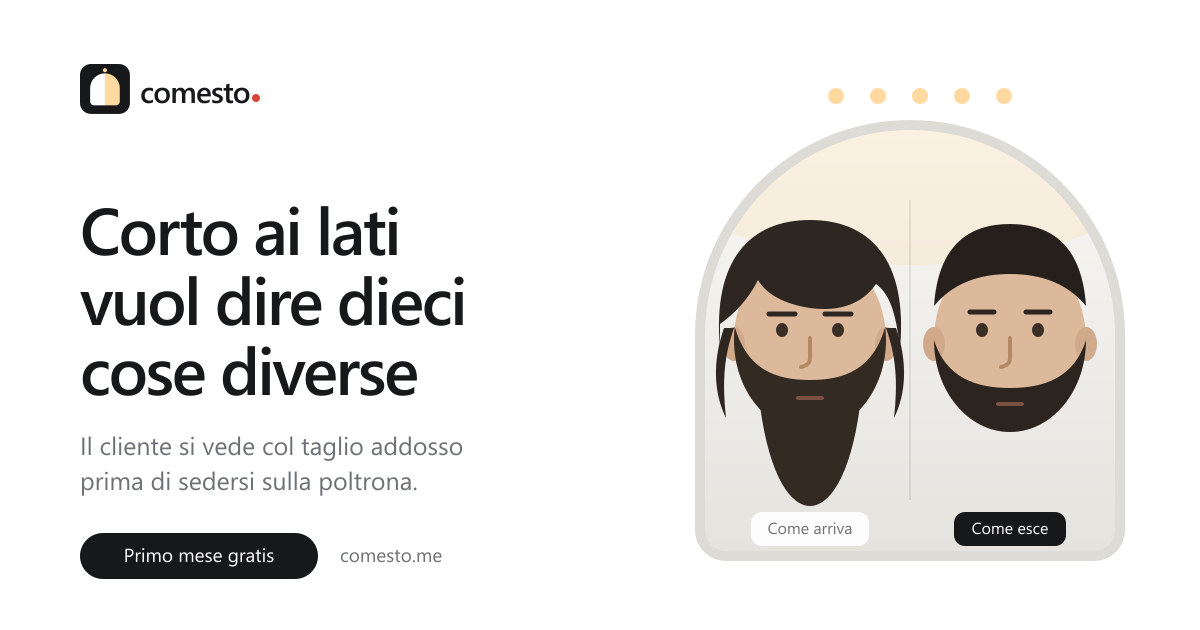
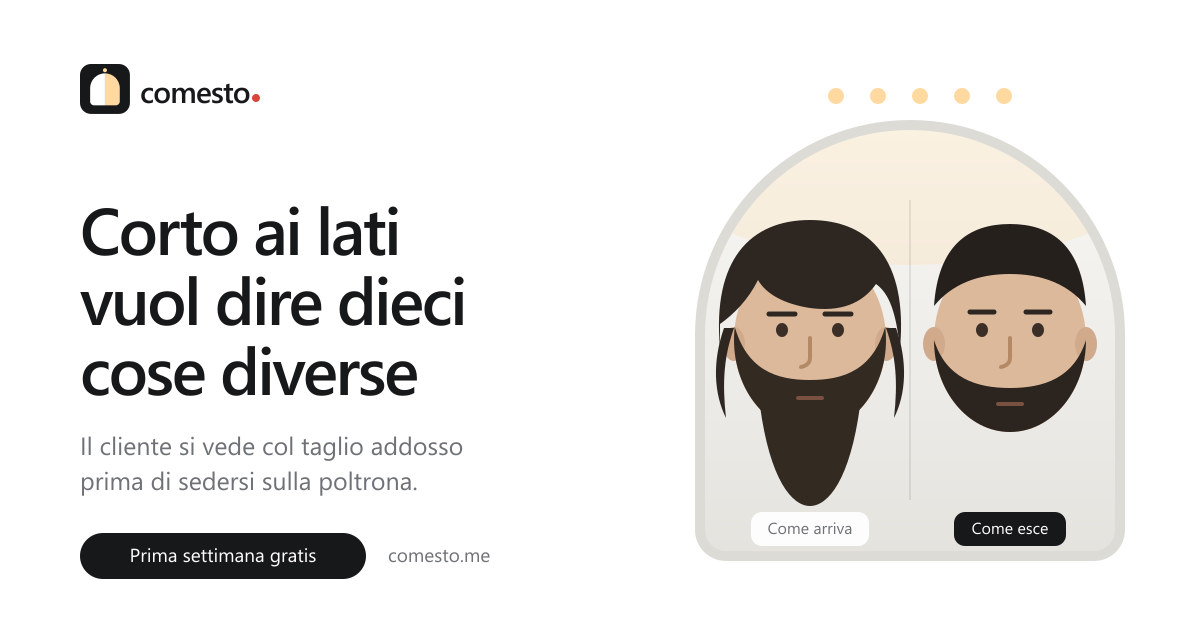
Prova gratuita di una settimana, via i dati personali del fondatore

Changed region(s): [[0.0925, 0.8444, 0.4008, 0.9349]]

diff --git a/ComestoSite.jsx b/ComestoSite.jsx
@@ -19,18 +19,18 @@ import React, { useState, useEffect, useRef, useCallback, useId } from "react";
    vuota. L'immagine og deve essere un URL assoluto e reale (1200x630).
 
    <title>comesto - il taglio lo vede prima, poi entra</title>
-   <meta name="description" content="Il tuo cliente si fa un selfie, sceglie dal tuo menu tagli e si vede col taglio addosso. Tu ricevi un link e un QR. 19,99 euro al mese, primo mese gratis." />
+   <meta name="description" content="Il tuo cliente si fa un selfie, sceglie dal tuo menu tagli e si vede col taglio addosso. Tu ricevi un link e un QR. 19,99 euro al mese, prima settimana gratis." />
    <meta name="viewport" content="width=device-width, initial-scale=1, viewport-fit=cover" />
    <meta name="theme-color" content="#FFFFFF" />
-   <link rel="canonical" href="https://<< dominio da inserire >>/" />
+   <link rel="canonical" href="https://comesto.me/" />
 
    <meta property="og:type" content="website" />
    <meta property="og:site_name" content="comesto" />
    <meta property="og:locale" content="it_IT" />
-   <meta property="og:url" content="https://<< dominio da inserire >>/" />
+   <meta property="og:url" content="https://comesto.me/" />
    <meta property="og:title" content="Corto ai lati vuol dire dieci cose diverse" />
-   <meta property="og:description" content="Il cliente si vede col taglio addosso prima di sedersi. Tu metti un QR sullo specchio. Primo mese gratis, disdici quando vuoi." />
-   <meta property="og:image" content="https://<< dominio da inserire >>/og-comesto.jpg" />
+   <meta property="og:description" content="Il cliente si vede col taglio addosso prima di sedersi. Tu metti un QR sullo specchio. Prima settimana gratis, disdici quando vuoi." />
+   <meta property="og:image" content="https://comesto.me/og-comesto.jpg" />
    <meta property="og:image:width" content="1200" />
    <meta property="og:image:height" content="630" />
    <meta property="og:image:alt" content="Uno specchio da barbiere con lo stesso cliente prima e dopo il taglio" />
@@ -38,7 +38,7 @@ import React, { useState, useEffect, useRef, useCallback, useId } from "react";
    <meta name="twitter:card" content="summary_large_image" />
    <meta name="twitter:title" content="Corto ai lati vuol dire dieci cose diverse" />
    <meta name="twitter:description" content="Il cliente si vede col taglio addosso prima di sedersi." />
-   <meta name="twitter:image" content="https://<< dominio da inserire >>/og-comesto.jpg" />
+   <meta name="twitter:image" content="https://comesto.me/og-comesto.jpg" />
    =========================================================================== */
 
 /* ---------------------------------------------------------------- costanti */
@@ -520,7 +520,7 @@ function Hero() {
               <Bottone href="#demo" variante="chiaro">Provala adesso</Bottone>
             </div>
             <p className="t-micro c-grigio pt-5">
-              Primo mese gratis. Nessun costo di attivazione. Disdici quando vuoi.
+              Prima settimana gratis. Nessun costo di attivazione. Disdici quando vuoi.
             </p>
           </div>
 
@@ -794,7 +794,7 @@ function Prezzi() {
           </p>
           <p className="t-small c-grigio">al mese, IVA esclusa</p>
           <p className="t-body c-grigio pt-4">
-            Primo mese gratis. Poi decidi tu se continuare, senza dover avvisare nessuno con tre mesi di anticipo.
+            Prima settimana gratis. Poi decidi tu se continuare, senza dover avvisare nessuno con tre mesi di anticipo.
           </p>
           <div className="pt-6">
             <Bottone href="#attiva" variante="scuro" largo>Attiva la prova gratuita</Bottone>
@@ -852,7 +852,7 @@ function Domande() {
     },
     {
       q: "E se poi non lo usa nessuno",
-      a: "Il primo mese è gratis apposta per scoprirlo senza rischiare soldi. Se dopo trenta giorni non ti ha portato niente, disdici e non paghi. Nessun vincolo, nessuna penale."
+      a: "La prima settimana è gratis apposta per scoprirlo senza rischiare soldi. Sette giorni bastano: ci passa dentro un fine settimana, che è quando lavori di più. Se non ti ha portato niente, disdici e non paghi."
     },
     {
       q: "I miei clienti sono grandi, non lo useranno mai",
@@ -909,26 +909,19 @@ function Domande() {
 function ChiSiamo() {
   return (
     <Sezione id="chisiamo">
-      <div className="sm:flex sm:gap-10 sm:items-start">
-        <div className="foto-fondatore rounded-2xl bg-nebbia border b-linea flex items-center justify-center text-center p-3 mb-8 sm:mb-0">
-          <span className="t-micro c-grigio">
-            <Ph>foto del fondatore</Ph>
-          </span>
-        </div>
-        <div className="min-w-0">
-          <Occhiello>Chi c'è dietro</Occhiello>
-          <h2 className="t-h2">Sono <Ph>nome fondatore</Ph></h2>
-          <p className="t-body c-grigio pt-4 max-w-2xl">
-            Ho fatto comesto dopo aver sentito la stessa scena decine di volte da questa parte della sedia: uno che spiega il taglio con le mani e un barbiere che tira a indovinare. Il problema non era la bravura di nessuno dei due, era che stavano parlando di due cose diverse.
-          </p>
-          <p className="t-body c-grigio pt-4 max-w-2xl">
-            Se qualcosa non va rispondo io, sullo stesso numero WhatsApp che vedi qui sotto. Non c'è un call center in mezzo.
-          </p>
-          <div className="pt-6">
-            <Bottone href={WA_LINK} variante="chiaro">
-              <IconaWA /> Scrivimi su WhatsApp
-            </Bottone>
-          </div>
+      <div className="max-w-2xl">
+        <Occhiello>Chi c'è dietro</Occhiello>
+        <h2 className="t-h2">Una persona sola, e il suo numero di telefono</h2>
+        <p className="t-body c-grigio pt-5">
+          comesto è nato da una scena sentita decine di volte da questa parte della sedia: uno che spiega il taglio con le mani e un barbiere che tira a indovinare. Il problema non era la bravura di nessuno dei due, era che stavano parlando di due cose diverse.
+        </p>
+        <p className="t-body c-grigio pt-4">
+          Non c'è un'agenzia, non c'è un call center, non c'è un modulo di assistenza che ti risponde fra tre giorni. Scrivi al numero qui sotto e ti risponde chi il prodotto lo ha fatto. Se una cosa non va, la sistemo io.
+        </p>
+        <div className="pt-6">
+          <Bottone href={WA_LINK} variante="chiaro">
+            <IconaWA /> Scrivimi su WhatsApp
+          </Bottone>
         </div>
       </div>
     </Sezione>
@@ -977,7 +970,7 @@ function Attiva() {
     <Sezione id="attiva">
       <div className="max-w-xl mx-auto">
         <Occhiello>Ultimo passo</Occhiello>
-        <h2 className="t-h2">Primo mese gratis. Poi vedi tu.</h2>
+        <h2 className="t-h2">Prima settimana gratis. Poi vedi tu.</h2>
         <p className="t-lead c-grigio pt-4">
           Lasciami quattro righe e ti richiamo io. Se preferisci scrivere, il pulsante di WhatsApp va bene uguale.
         </p>
@@ -1048,13 +1041,13 @@ function Footer() {
         </div>
 
         <div className="t-small c-grigio space-y-1">
-          <p className="t-occhiello c-inchiostro pb-2">Azienda</p>
-          <p><Ph>ragione sociale</Ph></p>
-          <p>Partita IVA <Ph>partita IVA</Ph></p>
-          <p><Ph>indirizzo sede</Ph></p>
-          <p><a className="link-sottile" href="mailto:info@comesto.it">info@<Ph>dominio</Ph></a></p>
+          <p className="t-occhiello c-inchiostro pb-2">Contatti</p>
           <p><a className="link-sottile" href={WA_LINK} target="_blank" rel="noreferrer">WhatsApp +39 371 424 0981</a></p>
+          <p><a className="link-sottile" href="mailto:info@comesto.me">info@comesto.me</a></p>
           <p>Assistenza <Ph>orari assistenza</Ph></p>
+          {/* Dati societari e partita IVA vanno qui prima del primo incasso:
+              sono obbligatori per legge su un sito che vende abbonamenti. */}
+          <p className="pt-3"><Ph>dati societari da inserire prima di vendere</Ph></p>
         </div>
 
         <div className="t-small c-grigio space-y-1">
@@ -1117,7 +1110,7 @@ const LEGALI = {
     titolo: "Termini e condizioni",
     blocchi: [
       ["Oggetto", "‹‹ ragione sociale ›› fornisce in abbonamento un'applicazione web che consente ai clienti di una barberia di visualizzare un'anteprima indicativa di un taglio di capelli su una propria fotografia."],
-      ["Prezzi e fatturazione", "L'abbonamento costa " + PREZZO_MESE + " euro al mese oppure " + PREZZO_ANNO + " euro all'anno, IVA esclusa. Il primo mese è gratuito. Su ogni pagamento viene emessa fattura elettronica. Nessun costo di attivazione."],
+      ["Prezzi e fatturazione", "L'abbonamento costa " + PREZZO_MESE + " euro al mese oppure " + PREZZO_ANNO + " euro all'anno, IVA esclusa. La prima settimana è gratuita. Su ogni pagamento viene emessa fattura elettronica. Nessun costo di attivazione."],
       ["Durata e disdetta", "L'abbonamento si rinnova automaticamente alla scadenza. Puoi disdire in qualsiasi momento con effetto dalla scadenza del periodo già pagato, senza penali e senza preavviso minimo. Scrivi a ‹‹ email assistenza ›› o sul numero WhatsApp indicato."],
       ["Natura del risultato", "L'anteprima generata è uno strumento di consulenza a scopo indicativo. Non costituisce garanzia del risultato finale del servizio di taglio, che dipende dall'esecuzione del professionista e dalle caratteristiche della persona."],
       ["Obblighi del cliente", "Il titolare della barberia si impegna a informare i propri clienti sull'uso dell'applicazione, a raccogliere il consenso al caricamento della fotografia e a non caricare immagini di terzi senza autorizzazione."],

diff --git a/index.html b/index.html
@@ -6,7 +6,7 @@
     <meta name="theme-color" content="#FFFFFF" />
 
     <title>comesto - il taglio lo vede prima, poi entra</title>
-    <meta name="description" content="Il tuo cliente si fa un selfie, sceglie dal tuo menu tagli e si vede col taglio addosso. Tu ricevi un link e un QR. 19,99 euro al mese, primo mese gratis." />
+    <meta name="description" content="Il tuo cliente si fa un selfie, sceglie dal tuo menu tagli e si vede col taglio addosso. Tu ricevi un link e un QR. 19,99 euro al mese, prima settimana gratis." />
     <link rel="canonical" href="https://comesto.me/" />
 
     <link rel="icon" type="image/svg+xml" href="/favicon.svg" />
@@ -18,7 +18,7 @@
     <meta property="og:locale" content="it_IT" />
     <meta property="og:url" content="https://comesto.me/" />
     <meta property="og:title" content="Corto ai lati vuol dire dieci cose diverse" />
-    <meta property="og:description" content="Il cliente si vede col taglio addosso prima di sedersi. Tu metti un QR sullo specchio. Primo mese gratis, disdici quando vuoi." />
+    <meta property="og:description" content="Il cliente si vede col taglio addosso prima di sedersi. Tu metti un QR sullo specchio. Prima settimana gratis, disdici quando vuoi." />
     <meta property="og:image" content="https://comesto.me/og-comesto.jpg" />
     <meta property="og:image:width" content="1200" />
     <meta property="og:image:height" content="630" />
